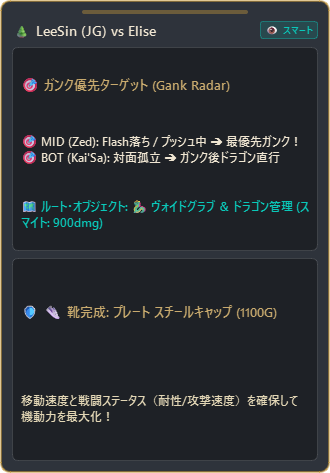
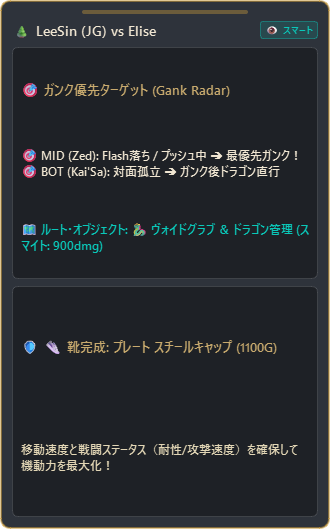
feat(overlay): TAB時の中央ゴールド差表示を完全削除、敵味方構成に応じた必須対策アイテム(重傷・対AP・対タンク・対CC耐性)の自動解析＆表示機能を実装

diff --git a/03_SYSTEMS/v2_CORE/_LOL/overlay/dynamic_build_advisor.py b/03_SYSTEMS/v2_CORE/_LOL/overlay/dynamic_build_advisor.py
@@ -559,3 +559,169 @@ class DynamicBuildAdvisor:
             "reason": "フルビルド達成！エリクサーを服用して決戦のステータスを底上げしましょう。",
             "priority": "LOW",
         }
+
+    @classmethod
+    def analyze_composition_counters(
+        cls,
+        my_champion: str,
+        my_items: list,
+        enemy_champions: list,
+        enemy_items: list = None
+    ) -> list:
+        """
+        敵味方の構成（5v5）を包括スキャンし、対策として絶対・推奨されるアイテムリストを生成。
+        （重傷、対AP防魔、対タンク貫通/割合、対CC耐性、対シールド等）
+        """
+        counters = []
+        if not my_champion:
+            return counters
+
+        # 自身のクラス判定
+        blueprint = CHAMPION_CORE_BLUEPRINTS.get(my_champion, {})
+        champ_class = blueprint.get("class", "ad_fighter")
+        is_ap = "ap" in champ_class
+        is_tank = "tank" in champ_class
+        is_adc = "marksman" in champ_class
+        is_ad = not is_ap and not is_tank
+
+        # 敵構成のスキャン
+        HEAL_THREATS = {
+            "Aatrox": "エイトロックス", "Warwick": "ワーウィック", "Briar": "ブライアー",
+            "Vladimir": "ブラッドミア", "Soraka": "ソラカ", "Yuumi": "ユーミ",
+            "Sylas": "サイラス", "Swain": "スウェイン", "Fiora": "フィオラ",
+            "Irelia": "イレリア", "DrMundo": "ムンド", "Mundo": "ムンド",
+            "Volibear": "ボリベア", "Illaoi": "イラオイ", "Kayn": "ケイン",
+            "Redemption": "回復サポート", "Sona": "ソナ", "Nami": "ナミ"
+        }
+        AP_THREATS = {
+            "Brand", "LeBlanc", "Leblanc", "Syndra", "Evelynn", "Katarina", "Ahri",
+            "Vex", "Viktor", "Orianna", "Lux", "Xerath", "Zoe", "Hwei", "Aurora",
+            "Veigar", "Anivia", "Cassiopeia", "Kassadin", "Ekko", "Fizz", "Diana",
+            "Lillia", "Elise", "Nidalee", "Fiddlesticks", "Taliyah", "Ziggs", "Kennen"
+        }
+        TANK_THREATS = {
+            "Malphite": "マルファイト", "Sion": "サイオン", "Ornn": "オーン",
+            "Sejuani": "セジュアニ", "TahmKench": "タム・ケンチ", "ChoGath": "チョ＝ガス",
+            "Rammus": "ラムス", "KSante": "カサンテ", "Ksante": "カサンテ",
+            "Zac": "ザック", "Maokai": "マオカイ", "Nautilus": "ノーチラス",
+            "Leona": "レオーナ", "Braum": "ブラウム", "Alistar": "アリスター"
+        }
+        CC_THREATS = {
+            "Leona", "Nautilus", "Morgana", "Ashe", "Amumu", "Sejuani", "Lissandra",
+            "Skarner", "TwistedFate", "Veigar", "Galio", "Rell", "Thresh"
+        }
+        SHIELD_THREATS = {
+            "Lulu": "ルル", "Karma": "カルマ", "Janna": "ジャンナ",
+            "Sett": "セット", "TahmKench": "タム・ケンチ", "Shen": "シェン",
+            "Mordekaiser": "モルデカイザー", "Ivern": "アイバーン"
+        }
+
+        found_healers = [HEAL_THREATS[c] for c in enemy_champions if c in HEAL_THREATS]
+        ap_enemies = [c for c in enemy_champions if c in AP_THREATS]
+        found_tanks = [TANK_THREATS[c] for c in enemy_champions if c in TANK_THREATS]
+        found_ccs = [c for c in enemy_champions if c in CC_THREATS]
+        found_shields = [SHIELD_THREATS[c] for c in enemy_champions if c in SHIELD_THREATS]
+
+        # 1. 回復阻害 (重傷)
+        if found_healers:
+            h_str = "・".join(found_healers[:2])
+            if is_ap:
+                it = ITEM_DB.get("OblivionOrb")
+                c_item = ITEM_DB.get("Morellonomicon")
+            elif is_tank:
+                it = ITEM_DB.get("BrambleVest")
+                c_item = ITEM_DB.get("Thornmail")
+            elif is_adc:
+                it = ITEM_DB.get("ExecutionersCalling")
+                c_item = ITEM_DB.get("MortalReminder")
+            else:
+                it = ITEM_DB.get("ExecutionersCalling")
+                c_item = ITEM_DB.get("ChempunkChainsword", it)
+
+            owned = is_item_owned(it, my_items) or (c_item and is_item_owned(c_item, my_items))
+            counters.append({
+                "item_name": it["name"],
+                "price": it["price"],
+                "tag": "🩸 重傷必須",
+                "reason": f"敵の強回復（{h_str}）を40%カット",
+                "target_threat": h_str,
+                "is_owned": owned,
+                "priority": "CRITICAL"
+            })
+
+        # 2. 対AP (魔法シールド / 防魔)
+        if len(ap_enemies) >= 3:
+            if is_ad:
+                it = ITEM_DB.get("MawOfMalmortius")
+            elif is_tank:
+                it = ITEM_DB.get("KaenicRookern")
+            elif is_ap:
+                it = ITEM_DB.get("BansheesVeil", ITEM_DB.get("ZhonyasHourglass"))
+            else: # adc
+                it = ITEM_DB.get("MawOfMalmortius", ITEM_DB.get("MercuryTreads"))
+
+            owned = is_item_owned(it, my_items)
+            counters.append({
+                "item_name": it["name"],
+                "price": it["price"],
+                "tag": "🛡 対AP防魔",
+                "reason": f"敵AP過多（{len(ap_enemies)}体）のバースト蒸発を防止",
+                "target_threat": f"AP {len(ap_enemies)}体",
+                "is_owned": owned,
+                "priority": "HIGH"
+            })
+
+        # 3. 対タンク (貫通 / 割合ダメージ)
+        if len(found_tanks) >= 2:
+            t_str = "・".join(found_tanks[:2])
+            if is_adc:
+                it = ITEM_DB.get("LordDominiksRegards")
+            elif is_ap:
+                it = ITEM_DB.get("VoidStaff")
+            elif is_ad:
+                it = ITEM_DB.get("BlackCleaver")
+            else:
+                it = ITEM_DB.get("SunfireAegis")
+
+            owned = is_item_owned(it, my_items)
+            counters.append({
+                "item_name": it["name"],
+                "price": it["price"],
+                "tag": "⚔ タンク破砕",
+                "reason": f"敵前衛（{t_str}）を削る割合/貫通ダメージ",
+                "target_threat": t_str,
+                "is_owned": owned,
+                "priority": "HIGH"
+            })
+
+        # 4. 対ハードCC (行動妨害耐性)
+        if len(found_ccs) >= 2:
+            it = ITEM_DB.get("MercuryTreads")
+            owned = is_item_owned(it, my_items)
+            counters.append({
+                "item_name": it["name"],
+                "price": it["price"],
+                "tag": "👟 行動妨害耐性",
+                "reason": f"敵のチェーンCC（{len(found_ccs)}体）拘束時間を30%短縮",
+                "target_threat": f"CC {len(found_ccs)}体",
+                "is_owned": owned,
+                "priority": "MID"
+            })
+
+        # 5. 対シールド (シールドブレイク)
+        if found_shields and is_ad and not is_adc:
+            s_str = "・".join(found_shields[:2])
+            it = {"name": "毒蛇の牙 (Serpent's Fang)", "price": 2500, "id": 6695}
+            owned = is_item_owned(it, my_items)
+            counters.append({
+                "item_name": it["name"],
+                "price": it["price"],
+                "tag": "🗡 シールド破壊",
+                "reason": f"敵の分厚いシールド（{s_str}）を50%低減",
+                "target_threat": s_str,
+                "is_owned": owned,
+                "priority": "MID"
+            })
+
+        return counters
+

diff --git a/03_SYSTEMS/v2_CORE/_LOL/overlay/matchup_card_widget.py b/03_SYSTEMS/v2_CORE/_LOL/overlay/matchup_card_widget.py
@@ -225,6 +225,36 @@ class MatchupCardWidget(QWidget):
 
         card_layout.addWidget(self.build_frame)
 
+        # 4.5 🎯 セクション④: 敵味方構成 必須対策アイテム (重傷・防魔・貫通・CC耐性)
+        self.counter_frame = QFrame(self.card_frame)
+        self.counter_frame.setStyleSheet("""
+            QFrame {
+                background-color: rgba(30, 20, 45, 0.40);
+                border: 1px solid rgba(168, 85, 247, 0.45);
+                border-radius: 6px;
+            }
+        """)
+        counter_layout = QVBoxLayout(self.counter_frame)
+        counter_layout.setContentsMargins(8, 6, 8, 6)
+        counter_layout.setSpacing(3)
+
+        counter_header = QHBoxLayout()
+        self.counter_title = QLabel("🎯 構成対策キーアイテム", self.counter_frame)
+        self.counter_title.setStyleSheet("color: #C084FC; font-size: 12px; font-weight: 900; background: transparent; border: none;")
+        counter_header.addWidget(self.counter_title)
+
+        self.counter_badge = QLabel("COUNTER", self.counter_frame)
+        self.counter_badge.setStyleSheet("color: #E879F9; font-size: 9.5px; font-weight: 900; background: transparent; border: none;")
+        counter_header.addWidget(self.counter_badge, alignment=Qt.AlignmentFlag.AlignRight)
+        counter_layout.addLayout(counter_header)
+
+        self.counter_items_label = QLabel("・処刑人の劫罰 (800G) - 敵ソラカの回復阻害", self.counter_frame)
+        self.counter_items_label.setStyleSheet("color: #F0E6D2; font-size: 11.5px; font-weight: 600; line-height: 1.3; background: transparent; border: none;")
+        self.counter_items_label.setWordWrap(True)
+        counter_layout.addWidget(self.counter_items_label)
+
+        card_layout.addWidget(self.counter_frame)
+
         # 5. 🧭 劣勢逆転コンパスフレーム (劣勢時のみ表示)
         self.compass_frame = QFrame(self.card_frame)
         self.compass_frame.setStyleSheet("""
@@ -357,6 +387,18 @@ class MatchupCardWidget(QWidget):
             self.build_frame.setVisible(True)
         else:
             self.build_frame.setVisible(False)
+
+        # 3.5 敵味方構成 対策キーアイテム
+        counters = state.get("composition_counters", [])
+        if counters:
+            lines = []
+            for c in counters[:2]:
+                status_str = "🟢 [購入済]" if c.get("is_owned") else "⚡ [未購入]"
+                lines.append(f"{c['tag']} {c['item_name']} ({c['price']}G) {status_str}\n  └ {c['reason']}")
+            self.counter_items_label.setText("\n".join(lines))
+            self.counter_frame.setVisible(True)
+        else:
+            self.counter_frame.setVisible(False)
 
         # 4. 劣勢逆転コンパス
         compass = state.get("comeback_compass")

diff --git a/03_SYSTEMS/v2_CORE/_LOL/overlay/run_overlay.py b/03_SYSTEMS/v2_CORE/_LOL/overlay/run_overlay.py
@@ -108,12 +108,11 @@ def main():
     live_client = LiveClient()
     state_engine = HudStateEngine()
 
-    # 5つのウィジェットを初期化
+    # 4つのコアウィジェットを初期化
     top_bar = TopBarWidget()
     matchup_card = MatchupCardWidget()
     toast_alert = ToastAlertWidget()
     spell_tracker = SpellTrackerWidget()
-    lane_dominance = LaneDominanceWidget()
 
     # 解像度自動取得 ＆ 安全領域自動スナップ
     saved_positions = load_widget_positions()
@@ -135,14 +134,7 @@ def main():
     else:
         matchup_card.move(24, int(screen_h * 0.22))
 
-    # ③ 画面中央 (LaneDominance): LoLスコアボードの各レーン対面ゴールド差（ビルド欄直結ピル）
-    pos_lane = saved_positions.get("lane_dominance", {})
-    if pos_lane:
-        lane_dominance.move(pos_lane.get("x", int(screen_w * 0.48)), pos_lane.get("y", int(screen_h * 0.36)))
-    else:
-        lane_dominance.move(int(screen_w * 0.48), int(screen_h * 0.36))
-
-    # ⑤ トーストアラート (画面中央上部 - 平常時は非表示、アラート時のみポップアップ)
+    # ③ トーストアラート (画面中央上部 - 平常時は非表示、アラート時のみポップアップ)
     toast_alert.move(int((screen_w - 320) / 2), 50)
     toast_alert.hide()
 
@@ -174,15 +166,12 @@ def main():
         nonlocal hud_visible
         spell_tracker.hide()
         matchup_card.hide()
-        lane_dominance.hide()
         toast_alert.hide()
         hud_visible = False
 
     # デモやモック、常時表示オプション指定時は最初から表示
     if args.always_show or args.demo or args.mock:
         show_hud_widgets()
-        if args.always_show:
-            lane_dominance.show()
     else:
         # 通常のLoL監視モード: ゲーム開始まで完全非表示
         hide_hud_widgets()
@@ -253,11 +242,9 @@ def main():
         if not hud_visible and not args.always_show:
             return
         if is_pressed:
-            lane_dominance.show()
             if not matchup_card.is_pinned:
                 matchup_card.show()
         else:
-            lane_dominance.hide()
             if not matchup_card.is_pinned:
                 matchup_card.hide()
 
@@ -422,7 +409,6 @@ def main():
             spell_tracker.update_data(state)
             matchup_card.update_data(state)
             toast_alert.update_events(state)
-            lane_dominance.update_data(state)
 
     timer = QTimer()
     timer.timeout.connect(update_all)

diff --git a/03_SYSTEMS/v2_CORE/_LOL/overlay/hud_state_engine.py b/03_SYSTEMS/v2_CORE/_LOL/overlay/hud_state_engine.py
@@ -573,6 +573,13 @@ class HudStateEngine:
             game_time_sec=game_time_sec
         )
 
+        enemy_champ_names = [p.get("rawChampionName", p.get("championName", "")).replace("game_character_displayname_", "") for p in enemy_players]
+        composition_counters = DynamicBuildAdvisor.analyze_composition_counters(
+            my_champion=my_champion,
+            my_items=my_items,
+            enemy_champions=enemy_champ_names
+        )
+
         build_recommendations = [f"{next_item_advice['tag']}: {next_item_advice['item_name']} ({next_item_advice['price']}G)"]
         if next_item_advice.get("reason"):
             build_recommendations.append(next_item_advice["reason"])
@@ -791,6 +798,7 @@ class HudStateEngine:
             # 敵5人の動的詳細
             "enemy_team_details": enemy_team_details,
             "next_item_advice": next_item_advice,
+            "composition_counters": composition_counters,
             "shop_alert": shop_alert,
             # ロール別対面ゴールド差
             "lane_dominance": lane_dominance,
